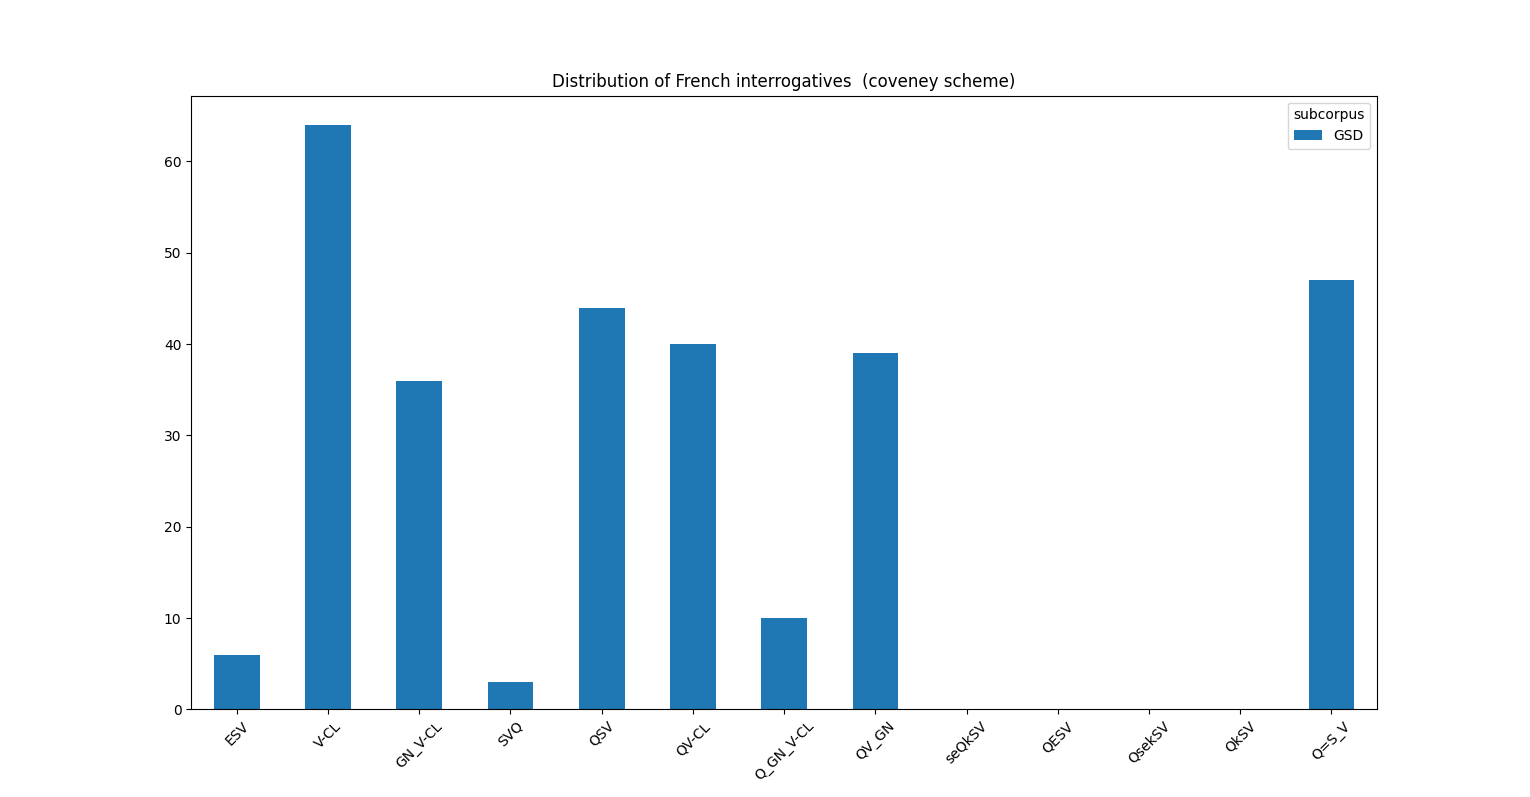
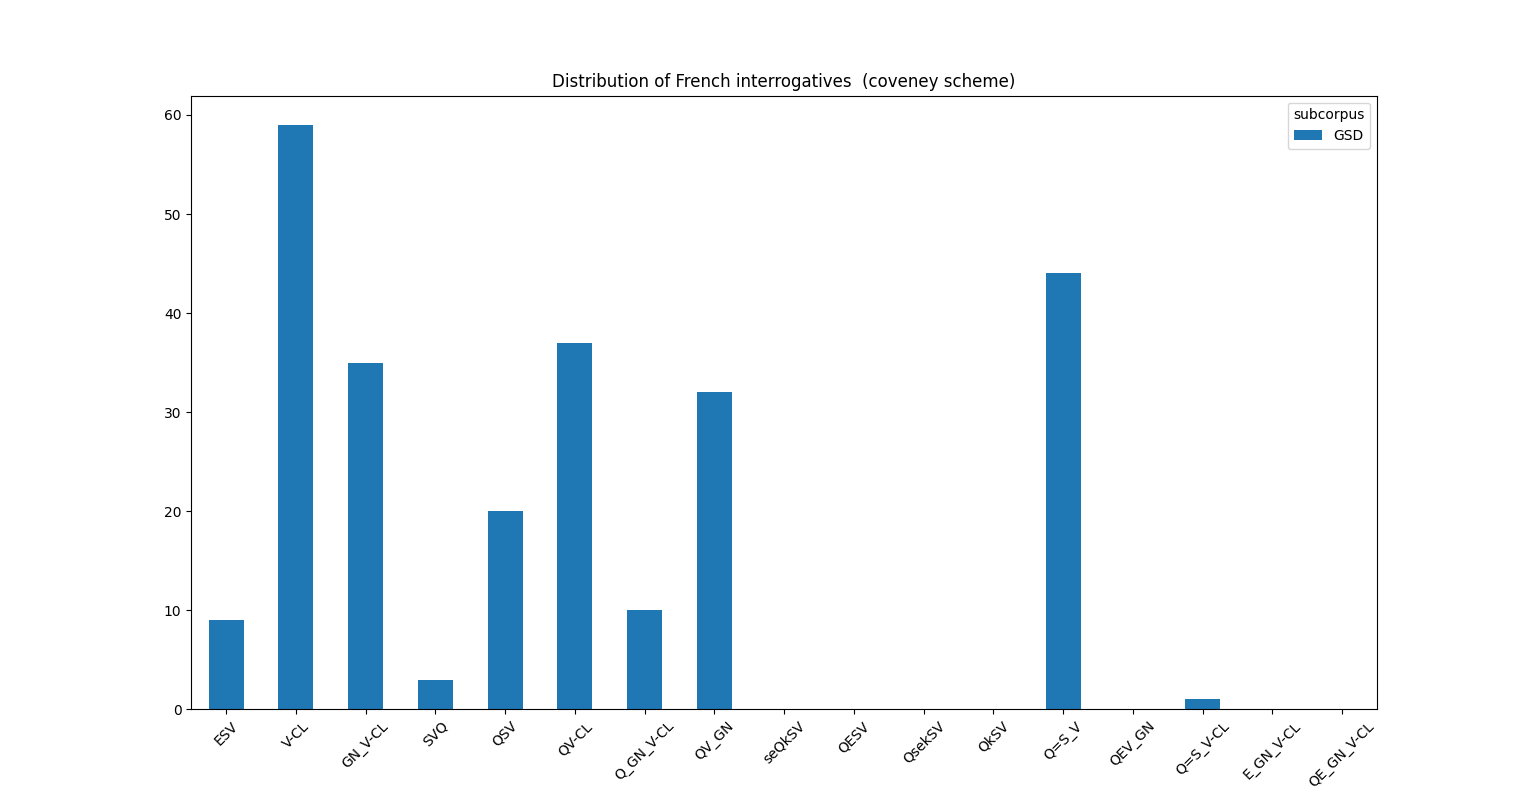
Small additions

diff --git a/STATS_README.md b/STATS_README.md
@@ -41,7 +41,7 @@ The program outputs a table of occurrences of French interrogatives, grouped by 
  * `richard`
  * `no`
 
-### coveney
+### `coveney`
 
 The classification `coveney` (direct interrogatives only) is based on:
 
@@ -68,11 +68,13 @@ The list of categories is:
    * `E_GN_V-CL`: 'est-ce que' + complex inversion, e.g. *Est-ce que demain les sauveteurs pourront-ils s’approcher des alpinistes en détresse ?*
    * `QE_GN_V-CL`: qu + 'est-ce que' + complex inversion e.g. *Qu’est-ce que le rédacteur de la rubrique des chats écrasés entend-il par un pachyderme ?*
 
-### richard
+**Note:** Contrary to [Coveney 2011], `stats.py` considers expression *qu'est-ce que/qui* as an interrogative word, and not as `Q` + *est-ce que* pattern.
+
+### `richard`
 
 WIP
 
-### no
+### `no`
 
 With `no`, no grouping on syntactic pattern is performed.
 
